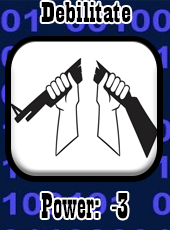
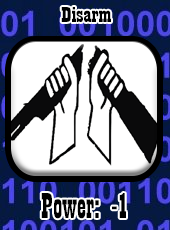
expo changes

diff --git a/gameplayBasics.py b/gameplayBasics.py
@@ -109,11 +109,28 @@ class Cards:
 class Deck:
     def __init__(self):
         self.cards = []
-        cards = [1, 2, 3, 4, 5] 
-        self.cards.append(Cards("test", 2, "spell", "blue"))
-        for num in range(11):
-            power = random.choice(cards)
-            self.cards.append(Cards(f"test{power}", power, "monster", "red"))
+        self.cards.append(Cards("spell07", 1, "spell", "blue"))
+        self.cards.append(Cards("spell08", 2, "spell", "blue"))
+        self.cards.append(Cards("spell09", 3, "spell", "blue"))
+        self.cards.append(Cards("spell10", -3, "spell", "blue"))
+        self.cards.append(Cards("spell11", -2, "spell", "blue"))
+        self.cards.append(Cards("spell12", -1, "spell", "blue"))
+        self.cards.append(Cards("monster16", 4,  "monster", "red"))
+        self.cards.append(Cards("monster17", 4,  "monster", "red"))
+        self.cards.append(Cards("monster18", 2,  "monster", "red"))
+        self.cards.append(Cards("monster19", 2,  "monster", "red"))
+        self.cards.append(Cards("monster20", 1,  "monster", "red"))
+        self.cards.append(Cards("monster21", 3,  "monster", "red"))
+        self.cards.append(Cards("monster22", 3,  "monster", "red"))
+        self.cards.append(Cards("monster23", 3,  "monster", "red"))
+        self.cards.append(Cards("monster24", 3,  "monster", "red"))
+        self.cards.append(Cards("monster25", 2,  "monster", "red"))
+        self.cards.append(Cards("monster26", 2,  "monster", "red"))
+        self.cards.append(Cards("monster27", 2,  "monster", "red"))
+        self.cards.append(Cards("monster28", 3,  "monster", "red"))
+        self.cards.append(Cards("monster29", 5,  "monster", "red"))
+        self.cards.append(Cards("monster30", 5,  "monster", "red"))
+        self.shuffle()
 
     @property
     def cards (self):
@@ -172,7 +189,7 @@ class Deck2(Deck):
 class MainGUI(Frame):
     def __init__(self, parent, roundsNeededToWin):
         Frame.__init__(self, parent, bg = "white")
-        self.p1deck = Deck2()
+        self.p1deck = Deck()
         self.p2deck = Deck2()
         self.p1hand = []
         self.p2hand = []
@@ -322,7 +339,7 @@ class MainGUI(Frame):
         lane3 = Label(self, text = "Lane 3", font=("TkDefaultFont",40))
         lane3.grid(row = 2, column = 3 )
 
-        nextButton = Button(self, text = "Next Phase", command = lambda: self.turnProgression(), font=("TkDefaultFont",20))
+        nextButton = Button(self, text = "Next Turn", command = lambda: self.turnProgression(), font=("TkDefaultFont",20))
         nextButton.grid(row = 2, column = 4)
 
         p1l1 = "physical-tcg/images/p1l1.png"
@@ -411,7 +428,7 @@ class MainGUI(Frame):
         self.p1Card5.menu.add_command(label= " Lane 2", command= lambda: self.playLane(self.p1Turn, 4, 2, 1) )
         self.p1Card5.menu.add_command(label= " Lane 3", command= lambda: self.playLane(self.p1Turn, 4, 3, 1) )
 
-        self.display = Label(self, text = "blank", anchor = "center")
+        self.display = Label(self, text = "", anchor = "center", bg= "white")
         self.display.grid(row = 3, column = 0 )
 
         self.pack(side = "bottom",fill = BOTH, expand = 1)
@@ -772,7 +789,7 @@ class MainGUI(Frame):
 
     def roundReset(self):
         self.round += 1
-        self.p1deck = Deck2()
+        self.p1deck = Deck()
         self.p2deck = Deck2()
         self.p1hand = []
         self.p2hand = []

diff --git a/detect_color.py b/detect_color.py
@@ -7,7 +7,7 @@ import cv2
 import time
 
 def detectColor():
-    cap = cv2.VideoCapture(0)
+    cap = cv2.VideoCapture(1)
     frame_rate = 5
     prev = 0
     while True:
